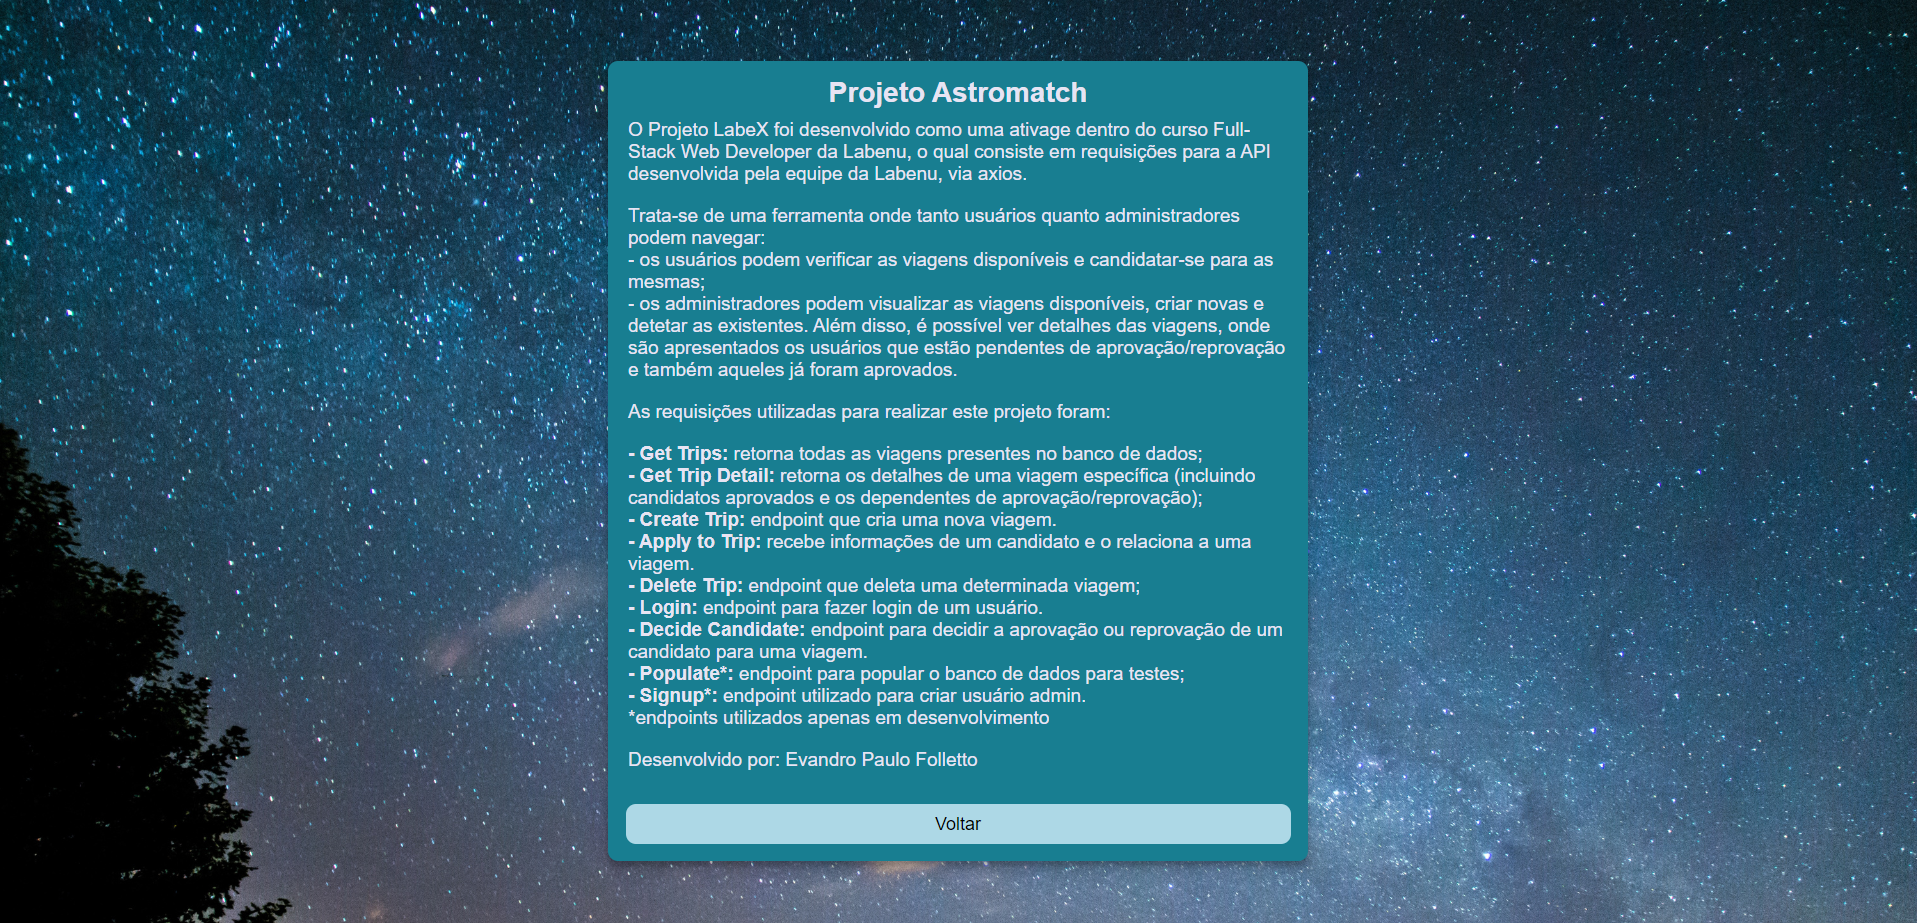
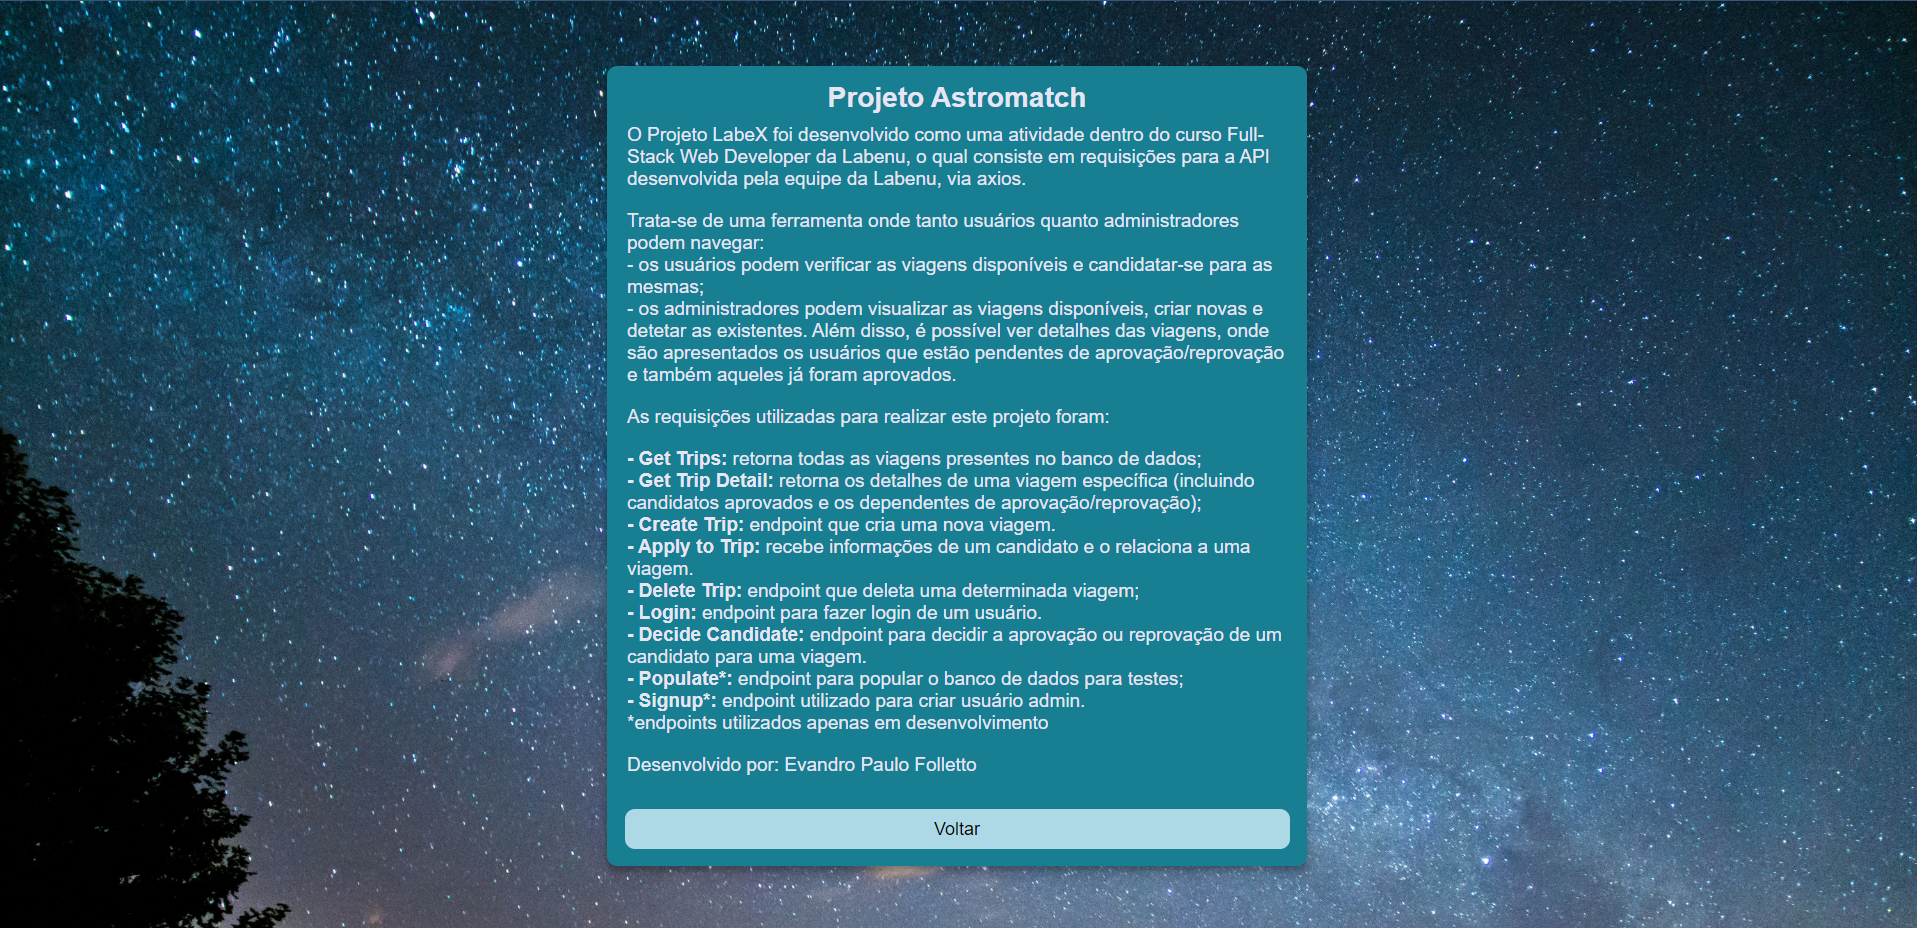
imagem readme

diff --git a/src/pages/AboutPage/AboutPage.js b/src/pages/AboutPage/AboutPage.js
@@ -12,7 +12,7 @@ export default function AboutPage() {
         <s.Title>Projeto Astromatch</s.Title>
         
         <s.Text>
-          O Projeto LabeX foi desenvolvido como uma ativage dentro do curso Full-Stack Web Developer da Labenu, o qual consiste em requisições para a API desenvolvida pela equipe da Labenu, via axios.
+          O Projeto LabeX foi desenvolvido como uma atividade dentro do curso Full-Stack Web Developer da Labenu, o qual consiste em requisições para a API desenvolvida pela equipe da Labenu, via axios.
         </s.Text>
 
         <s.Text>
